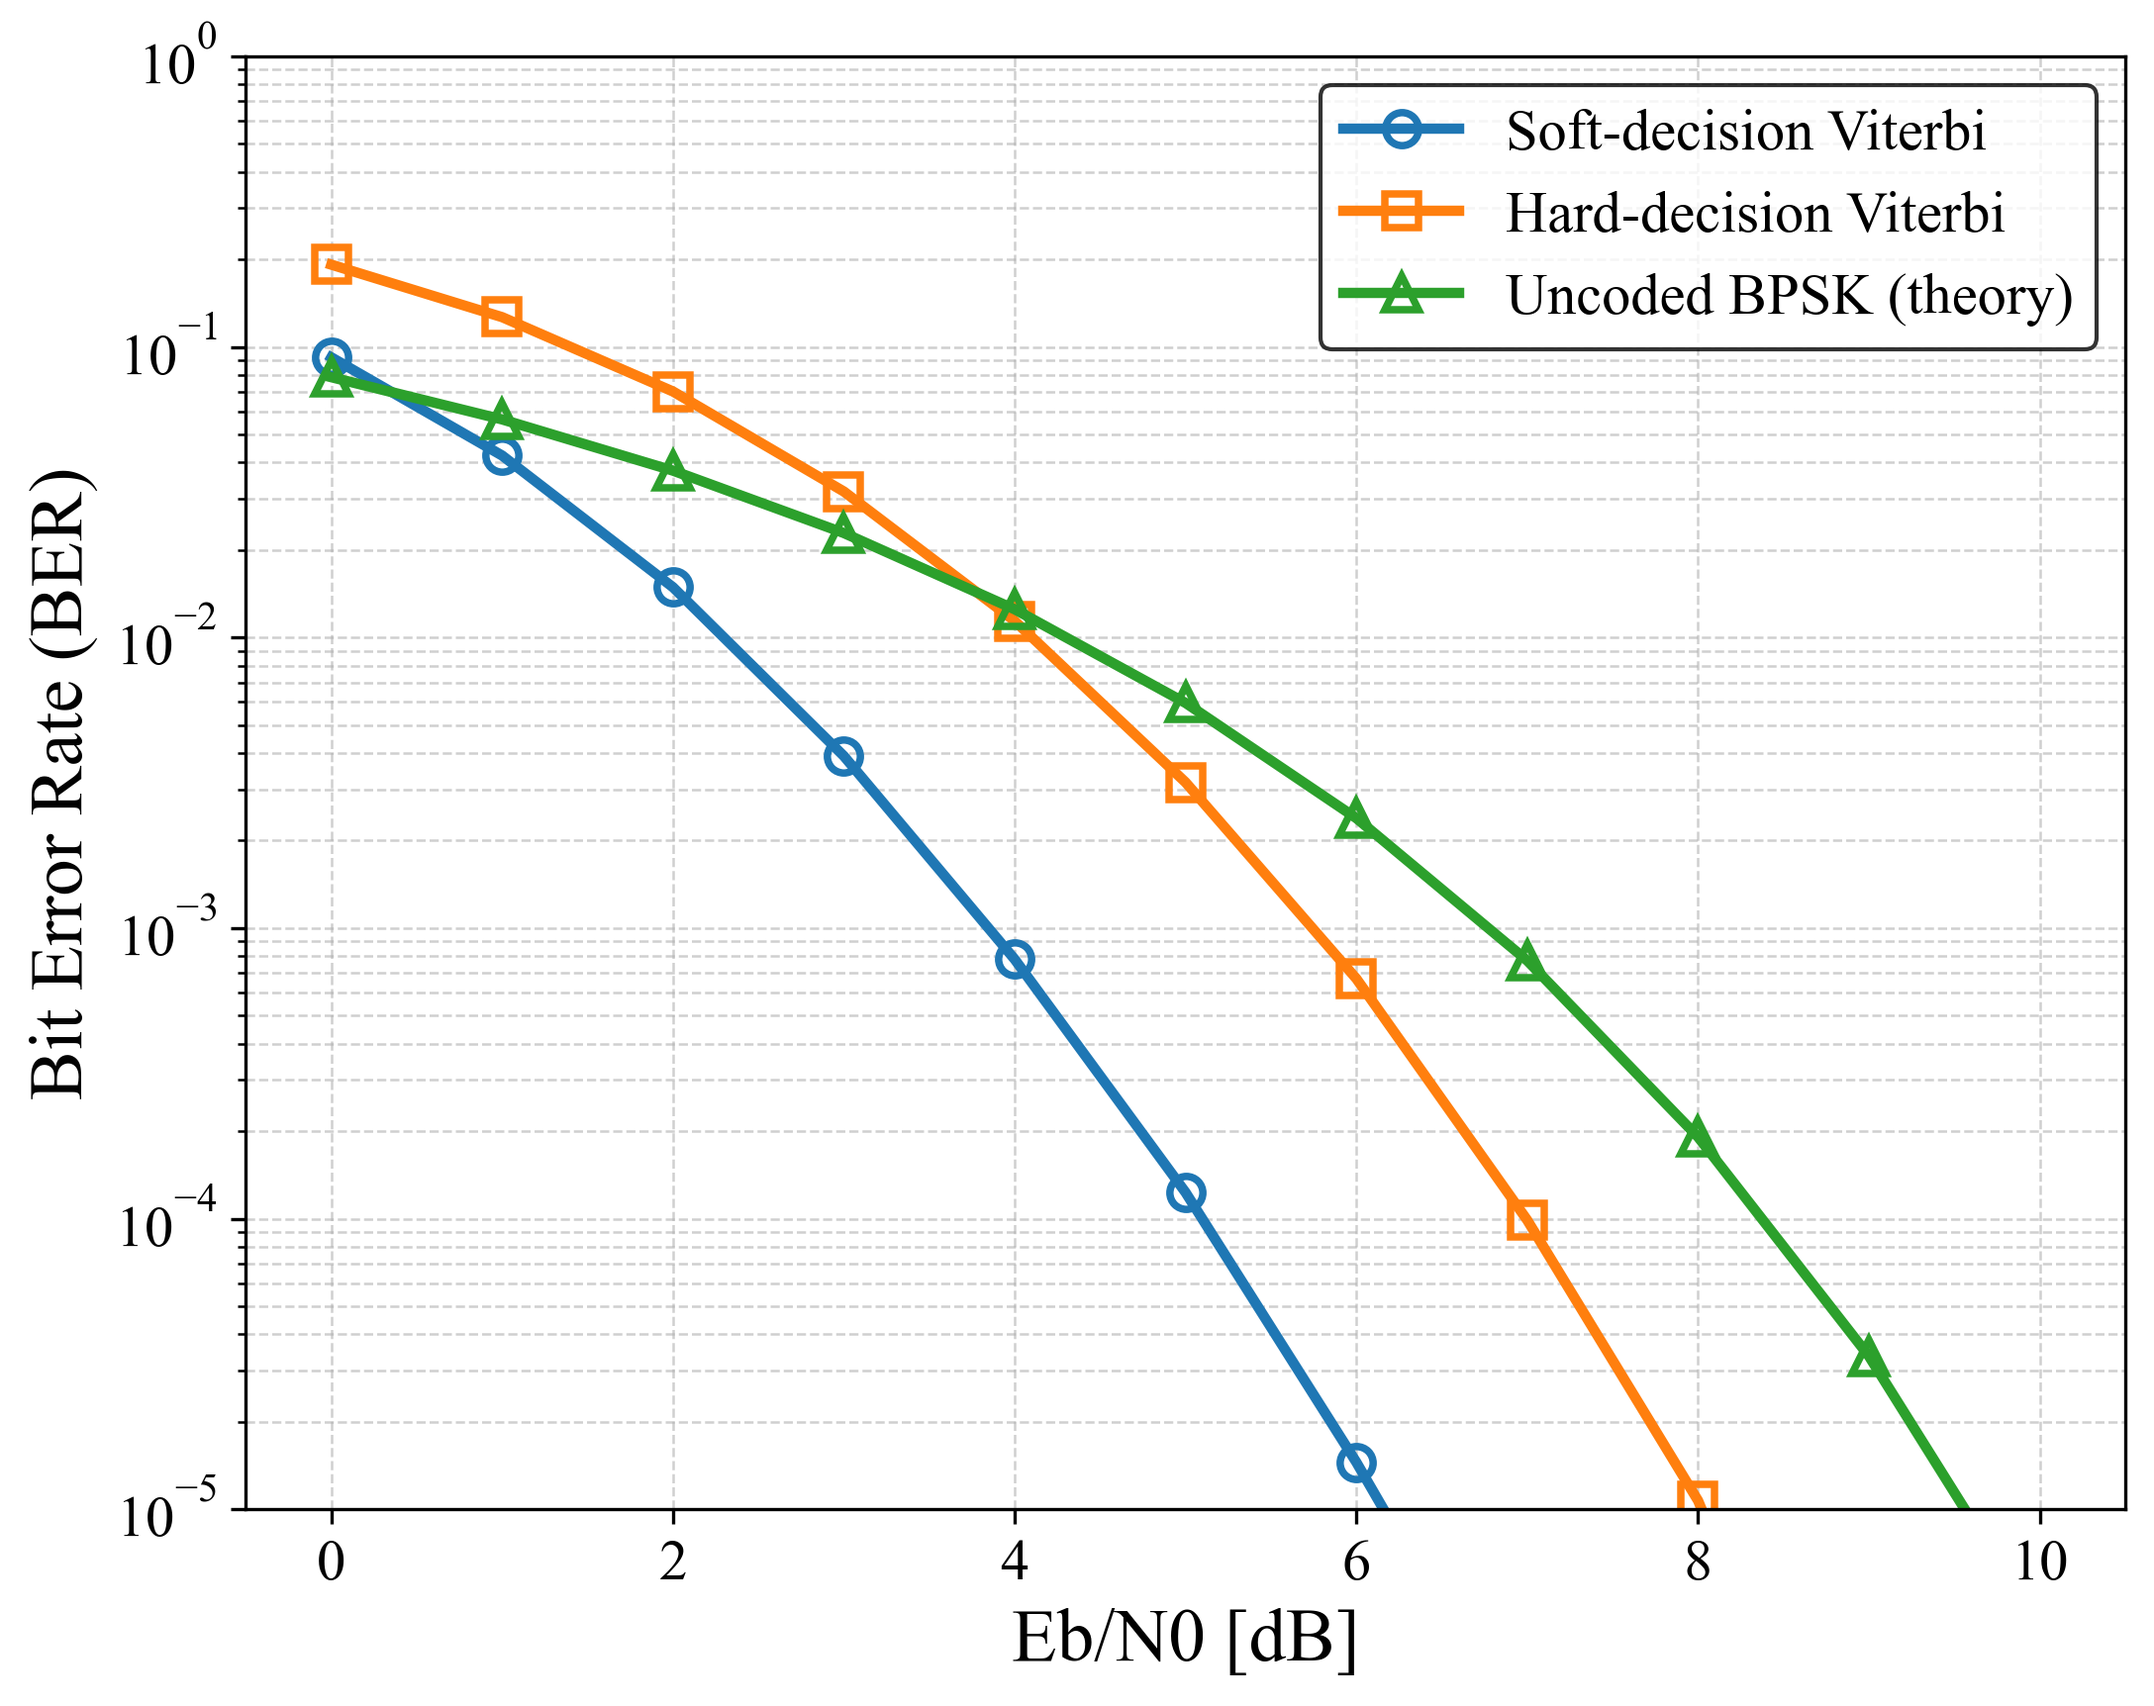
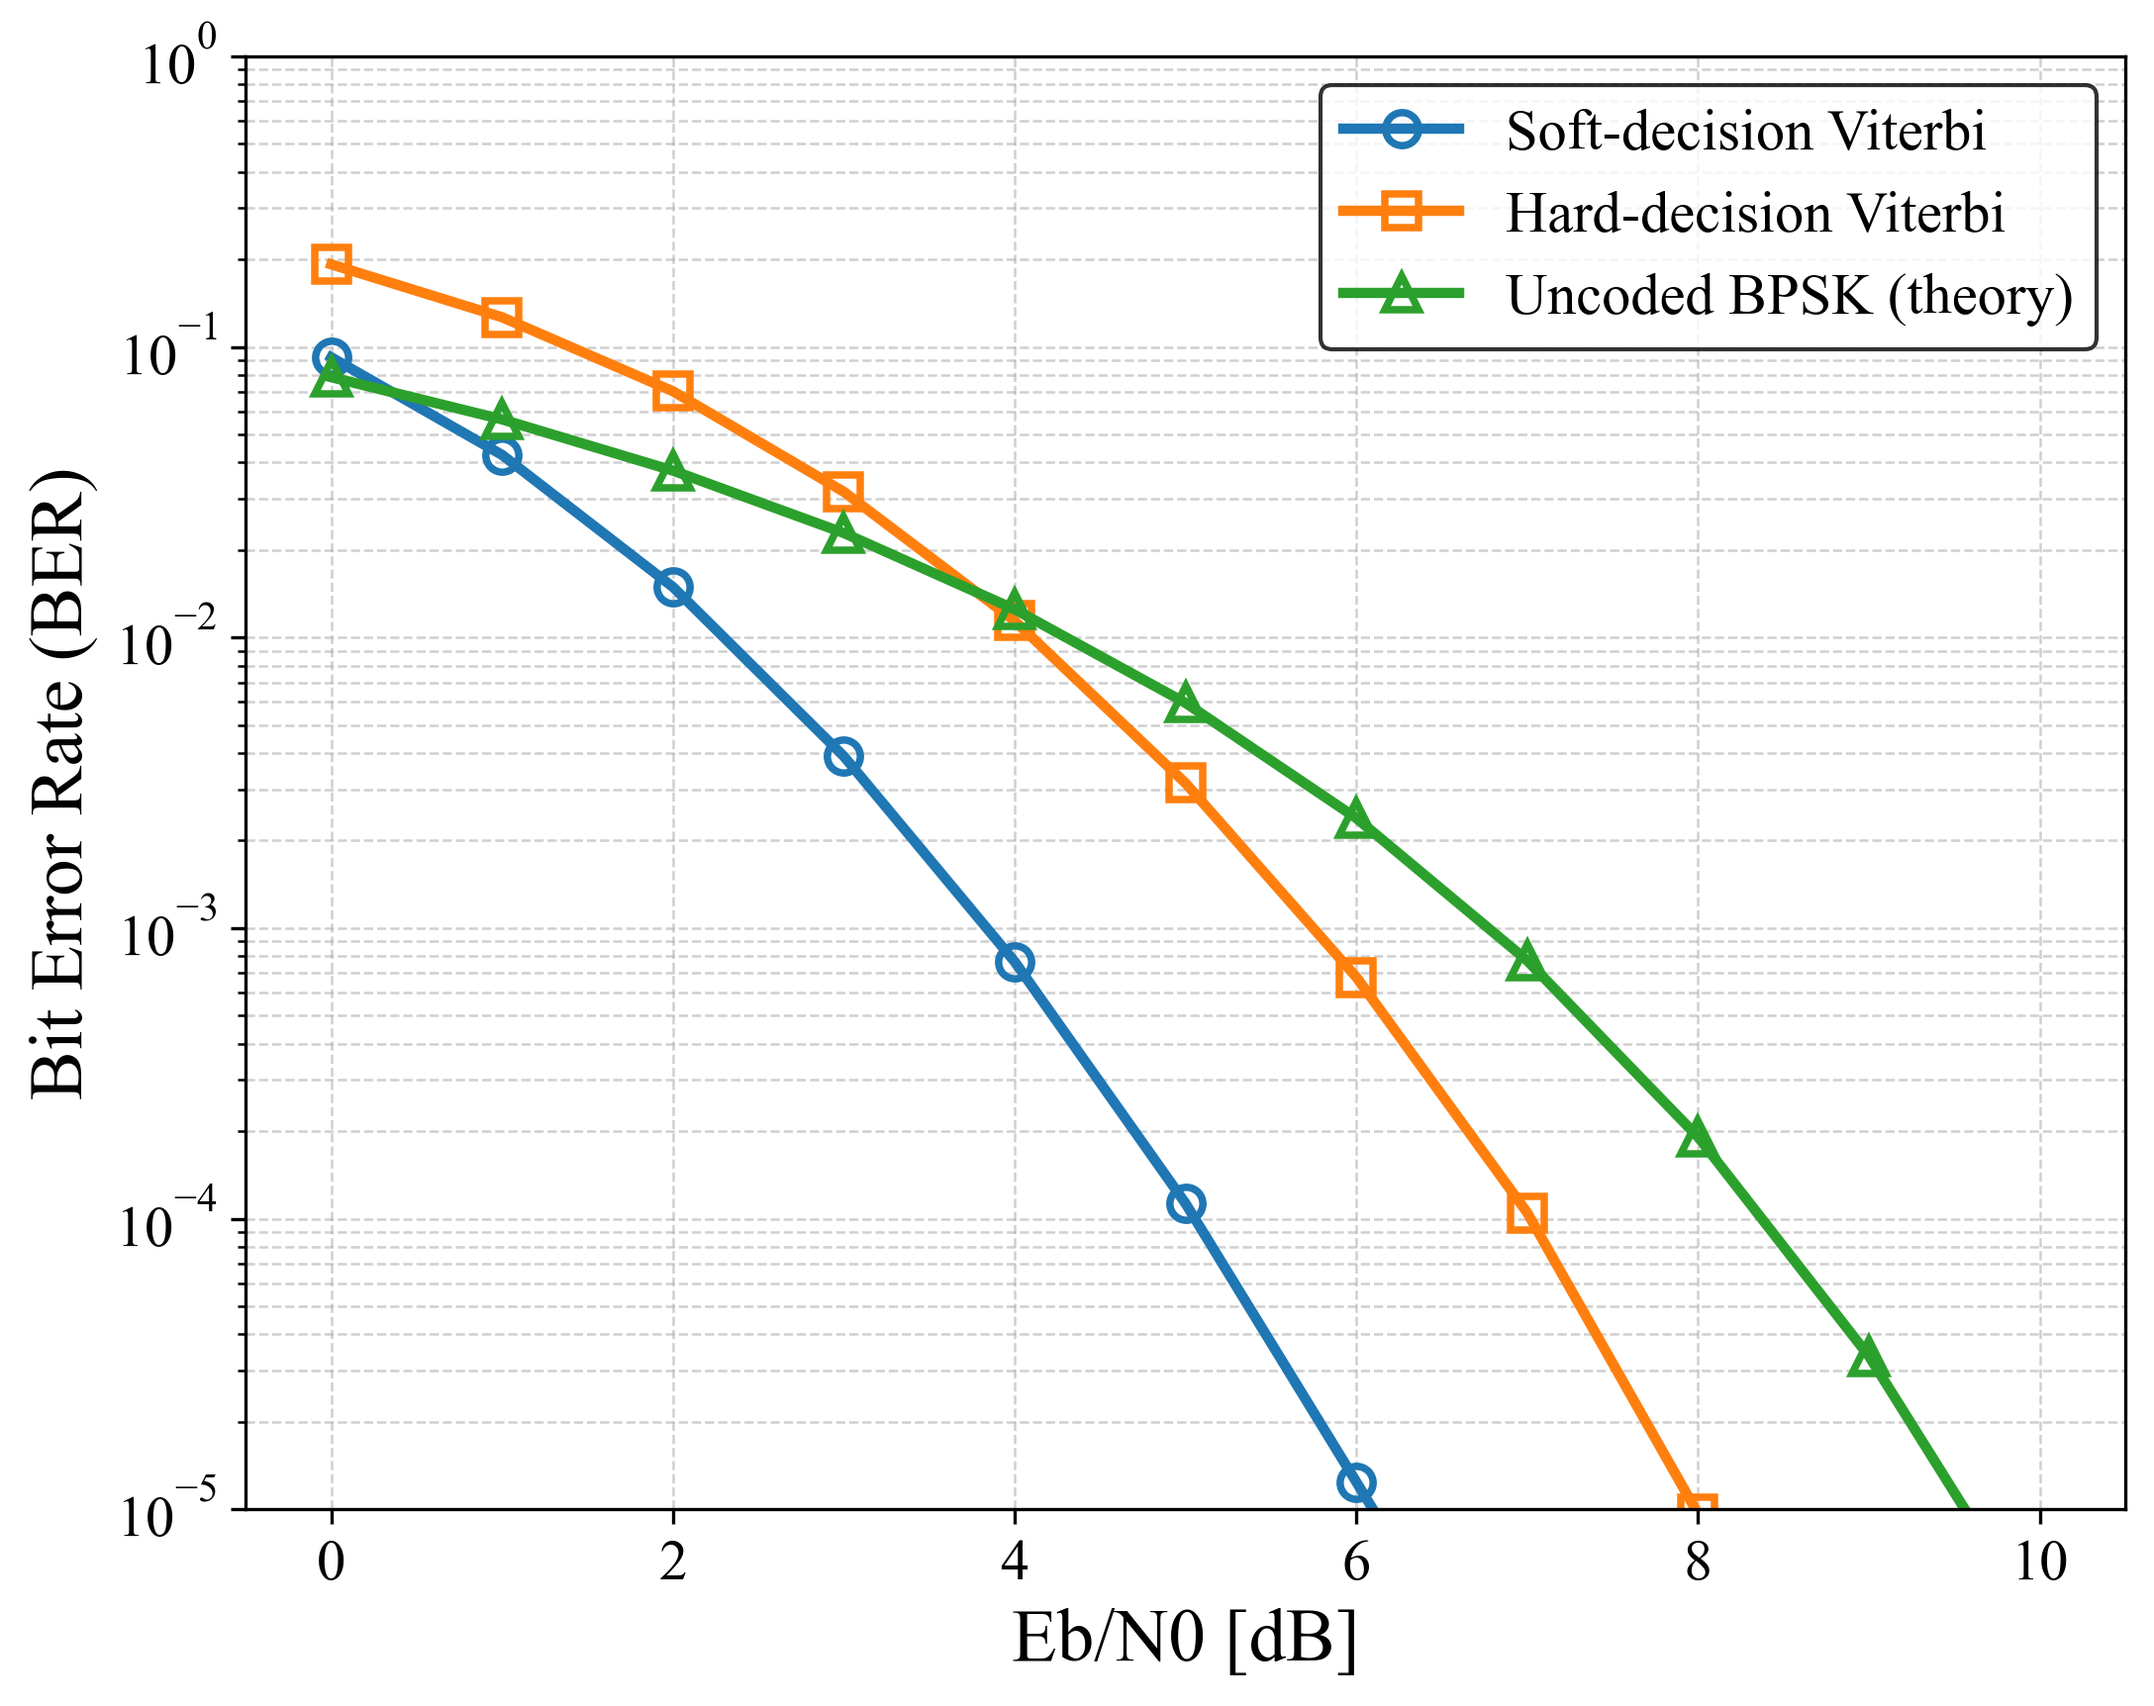
[v0.1.5] Makefileの修正

diff --git a/examples/test_nsc.c b/examples/test_nsc.c
@@ -57,7 +57,7 @@ int main() {
   int K = nsc_info_len;
   int N = nsc_code_len;
 
-  int trials = 100000;
+  int trials = 500000;
   double EbN0_min = 0.0;
   double EbN0_max = 10.0;
   double EbN0_step = 1.0;

diff --git a/include/version.h b/include/version.h
@@ -3,8 +3,8 @@
 
 #define NSC_VERSION_MAJOR 0
 #define NSC_VERSION_MINOR 1
-#define NSC_VERSION_PATCH 4
+#define NSC_VERSION_PATCH 5
 
-#define NSC_VERSION "0.1.4"
+#define NSC_VERSION "0.1.5"
 
 #endif
